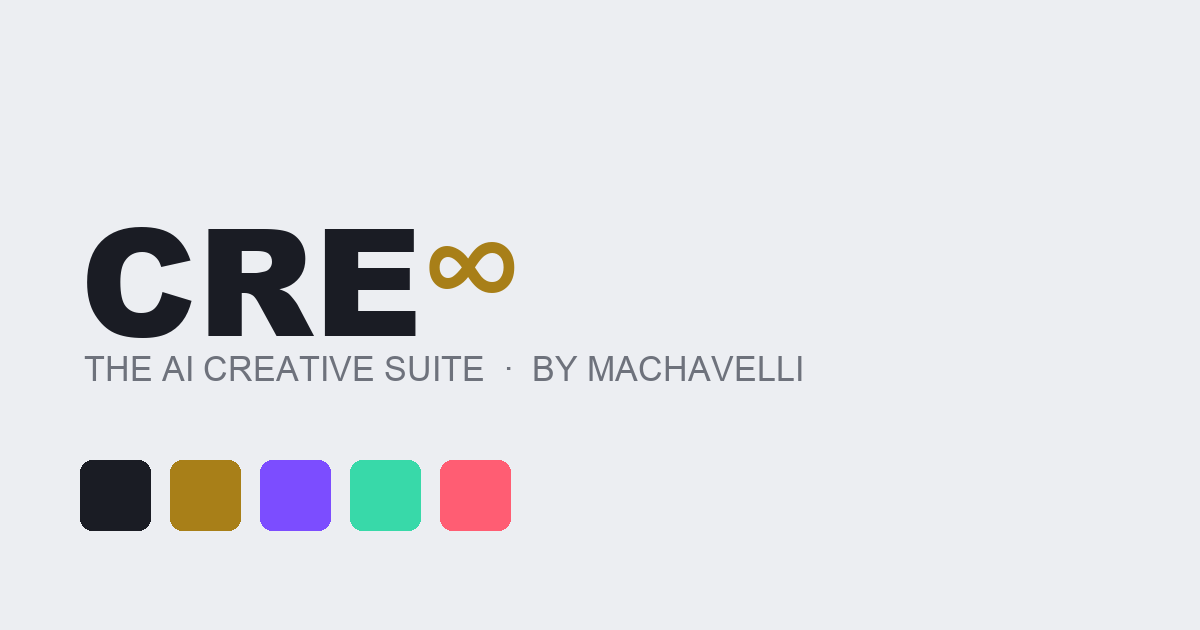
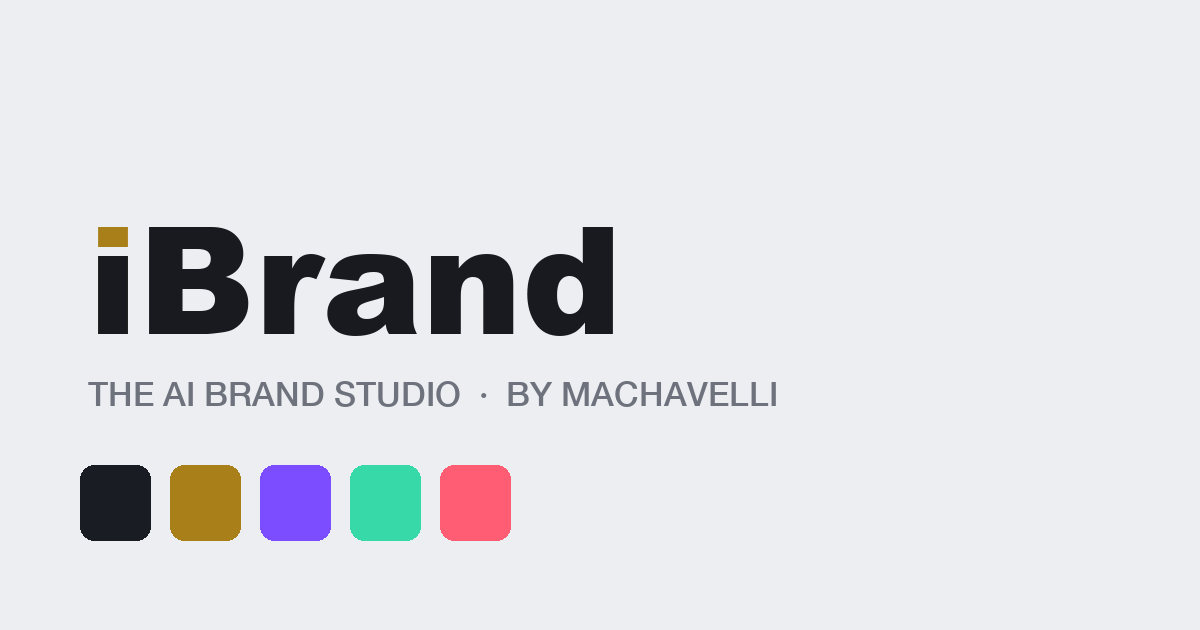
iBrand — the AI brand studio renamed (was CRE∞ suite)

Changed region(s): [[0.0617, 0.3619, 0.6783, 0.6635], [0.0617, 0.8143, 0.4317, 0.8746], [0.0617, 0.7238, 0.4317, 0.754]]

diff --git a/assets/index-DB0gKzt2.js b/assets/index-DB0gKzt2.js
@@ -1,0 +1,1 @@
+(function(){const t=document.createElement("link").relList;if(t&&t.supports&&t.supports("modulepreload"))return;for(const i of document.querySelectorAll('link[rel="modulepreload"]'))l(i);new MutationObserver(i=>{for(const s of i)if(s.type==="childList")for(const f of s.addedNodes)f.tagName==="LINK"&&f.rel==="modulepreload"&&l(f)}).observe(document,{childList:!0,subtree:!0});function n(i){const s={};return i.integrity&&(s.integrity=i.integrity),i.referrerPolicy&&(s.referrerPolicy=i.referrerPolicy),i.crossOrigin==="use-credentials"?s.credentials="include":i.crossOrigin==="anonymous"?s.credentials="omit":s.credentials="same-origin",s}function l(i){if(i.ep)return;i.ep=!0;const s=n(i);fetch(i.href,s)}})();const yt=!1,xt=(e,t)=>e===t,wt=Symbol("solid-track"),ke={equals:xt};let Qe=lt;const de=1,Re=2,et={owned:null,cleanups:null,context:null,owner:null};var U=null;let He=null,St=null,D=null,G=null,ae=null,Oe=0;function Te(e,t){const n=D,l=U,i=e.length===0,s=t===void 0?l:t,f=i?et:{owned:null,cleanups:null,context:s?s.context:null,owner:s},r=i?e:()=>e(()=>fe(()=>we(f)));U=f,D=null;try{return _e(r,!0)}finally{D=n,U=l}}function ee(e,t){t=t?Object.assign({},ke,t):ke;const n={value:e,observers:null,observerSlots:null,comparator:t.equals||void 0},l=i=>(typeof i=="function"&&(i=i(n.value)),nt(n,i));return[tt.bind(n),l]}function M(e,t,n){const l=We(e,t,!1,de);Se(l)}function je(e,t,n){Qe=Tt;const l=We(e,t,!1,de);l.user=!0,ae?ae.push(l):Se(l)}function xe(e,t,n){n=n?Object.assign({},ke,n):ke;const l=We(e,t,!0,0);return l.observers=null,l.observerSlots=null,l.comparator=n.equals||void 0,Se(l),tt.bind(l)}function fe(e){if(D===null)return e();const t=D;D=null;try{return e()}finally{D=t}}function _t(e){je(()=>fe(e))}function Et(e){return U===null||(U.cleanups===null?U.cleanups=[e]:U.cleanups.push(e)),e}function tt(){if(this.sources&&this.state)if(this.state===de)Se(this);else{const e=G;G=null,_e(()=>Me(this),!1),G=e}if(D){const e=this.observers?this.observers.length:0;D.sources?(D.sources.push(this),D.sourceSlots.push(e)):(D.sources=[this],D.sourceSlots=[e]),this.observers?(this.observers.push(D),this.observerSlots.push(D.sources.length-1)):(this.observers=[D],this.observerSlots=[D.sources.length-1])}return this.value}function nt(e,t,n){let l=e.value;return(!e.comparator||!e.comparator(l,t))&&(e.value=t,e.observers&&e.observers.length&&_e(()=>{for(let i=0;i<e.observers.length;i+=1){const s=e.observers[i],f=He&&He.running;f&&He.disposed.has(s),(f?!s.tState:!s.state)&&(s.pure?G.push(s):ae.push(s),s.observers&&it(s)),f||(s.state=de)}if(G.length>1e6)throw G=[],new Error},!1)),t}function Se(e){if(!e.fn)return;we(e);const t=Oe;Ct(e,e.value,t)}function Ct(e,t,n){let l;const i=U,s=D;D=U=e;try{l=e.fn(t)}catch(f){return e.pure&&(e.state=de,e.owned&&e.owned.forEach(we),e.owned=null),e.updatedAt=n+1,st(f)}finally{D=s,U=i}(!e.updatedAt||e.updatedAt<=n)&&(e.updatedAt!=null&&"observers"in e?nt(e,l):e.value=l,e.updatedAt=n)}function We(e,t,n,l=de,i){const s={fn:e,state:l,updatedAt:null,owned:null,sources:null,sourceSlots:null,cleanups:null,value:t,owner:U,context:U?U.context:null,pure:n};return U===null||U!==et&&(U.owned?U.owned.push(s):U.owned=[s]),s}function Le(e){if(e.state===0)return;if(e.state===Re)return Me(e);if(e.suspense&&fe(e.suspense.inFallback))return e.suspense.effects.push(e);const t=[e];for(;(e=e.owner)&&(!e.updatedAt||e.updatedAt<Oe);)e.state&&t.push(e);for(let n=t.length-1;n>=0;n--)if(e=t[n],e.state===de)Se(e);else if(e.state===Re){const l=G;G=null,_e(()=>Me(e,t[0]),!1),G=l}}function _e(e,t){if(G)return e();let n=!1;t||(G=[]),ae?n=!0:ae=[],Oe++;try{const l=e();return At(n),l}catch(l){n||(ae=null),G=null,st(l)}}function At(e){if(G&&(lt(G),G=null),e)return;const t=ae;ae=null,t.length&&_e(()=>Qe(t),!1)}function lt(e){for(let t=0;t<e.length;t++)Le(e[t])}function Tt(e){let t,n=0;for(t=0;t<e.length;t++){const l=e[t];l.user?e[n++]=l:Le(l)}for(t=0;t<n;t++)Le(e[t])}function Me(e,t){e.state=0;for(let n=0;n<e.sources.length;n+=1){const l=e.sources[n];if(l.sources){const i=l.state;i===de?l!==t&&(!l.updatedAt||l.updatedAt<Oe)&&Le(l):i===Re&&Me(l,t)}}}function it(e){for(let t=0;t<e.observers.length;t+=1){const n=e.observers[t];n.state||(n.state=Re,n.pure?G.push(n):ae.push(n),n.observers&&it(n))}}function we(e){let t;if(e.sources)for(;e.sources.length;){const n=e.sources.pop(),l=e.sourceSlots.pop(),i=n.observers;if(i&&i.length){const s=i.pop(),f=n.observerSlots.pop();l<i.length&&(s.sourceSlots[f]=l,i[l]=s,n.observerSlots[l]=f)}}if(e.tOwned){for(t=e.tOwned.length-1;t>=0;t--)we(e.tOwned[t]);delete e.tOwned}if(e.owned){for(t=e.owned.length-1;t>=0;t--)we(e.owned[t]);e.owned=null}if(e.cleanups){for(t=e.cleanups.length-1;t>=0;t--)e.cleanups[t]();e.cleanups=null}e.state=0}function kt(e){return e instanceof Error?e:new Error(typeof e=="string"?e:"Unknown error",{cause:e})}function st(e,t=U){throw kt(e)}const Rt=Symbol("fallback");function qe(e){for(let t=0;t<e.length;t++)e[t]()}function Lt(e,t,n={}){let l=[],i=[],s=[],f=0,r=t.length>1?[]:null;return Et(()=>qe(s)),()=>{let $=e()||[],w=$.length,S,p;return $[wt],fe(()=>{let J,se,re,he,pe,V,q,te,N;if(w===0)f!==0&&(qe(s),s=[],l=[],i=[],f=0,r&&(r=[])),n.fallback&&(l=[Rt],i[0]=Te(ge=>(s[0]=ge,n.fallback())),f=1);else if(f===0){for(i=new Array(w),p=0;p<w;p++)l[p]=$[p],i[p]=Te(X);f=w}else{for(re=new Array(w),he=new Array(w),r&&(pe=new Array(w)),V=0,q=Math.min(f,w);V<q&&l[V]===$[V];V++);for(q=f-1,te=w-1;q>=V&&te>=V&&l[q]===$[te];q--,te--)re[te]=i[q],he[te]=s[q],r&&(pe[te]=r[q]);for(J=new Map,se=new Array(te+1),p=te;p>=V;p--)N=$[p],S=J.get(N),se[p]=S===void 0?-1:S,J.set(N,p);for(S=V;S<=q;S++)N=l[S],p=J.get(N),p!==void 0&&p!==-1?(re[p]=i[S],he[p]=s[S],r&&(pe[p]=r[S]),p=se[p],J.set(N,p)):s[S]();for(p=V;p<w;p++)p in re?(i[p]=re[p],s[p]=he[p],r&&(r[p]=pe[p],r[p](p))):i[p]=Te(X);i=i.slice(0,f=w),l=$.slice(0)}return i});function X(J){if(s[p]=J,r){const[se,re]=ee(p);return r[p]=re,t($[p],se)}return t($[p])}}}function P(e,t){return fe(()=>e(t||{}))}const Mt=e=>`Stale read from <${e}>.`;function ie(e){const t="fallback"in e&&{fallback:()=>e.fallback};return xe(Lt(()=>e.each,e.children,t||void 0))}function ce(e){const t=e.keyed,n=xe(()=>e.when,void 0,void 0),l=t?n:xe(n,void 0,{equals:(i,s)=>!i==!s});return xe(()=>{const i=l();if(i){const s=e.children;return typeof s=="function"&&s.length>0?fe(()=>s(t?i:()=>{if(!fe(l))throw Mt("Show");return n()})):s}return e.fallback},void 0,void 0)}const Ce=e=>xe(()=>e());function Nt(e,t,n){let l=n.length,i=t.length,s=l,f=0,r=0,$=t[i-1].nextSibling,w=null;for(;f<i||r<s;){if(t[f]===n[r]){f++,r++;continue}for(;t[i-1]===n[s-1];)i--,s--;if(i===f){const S=s<l?r?n[r-1].nextSibling:n[s-r]:$;for(;r<s;)e.insertBefore(n[r++],S)}else if(s===r)for(;f<i;)(!w||!w.has(t[f]))&&t[f].remove(),f++;else if(t[f]===n[s-1]&&n[r]===t[i-1]){const S=t[--i].nextSibling;e.insertBefore(n[r++],t[f++].nextSibling),e.insertBefore(n[--s],S),t[i]=n[s]}else{if(!w){w=new Map;let p=r;for(;p<s;)w.set(n[p],p++)}const S=w.get(t[f]);if(S!=null)if(r<S&&S<s){let p=f,X=1,J;for(;++p<i&&p<s&&!((J=w.get(t[p]))==null||J!==S+X);)X++;if(X>S-r){const se=t[f];for(;r<S;)e.insertBefore(n[r++],se)}else e.replaceChild(n[r++],t[f++])}else f++;else t[f++].remove()}}}const ze="_$DX_DELEGATE";function Ot(e,t,n,l={}){let i;return Te(s=>{i=s,t===document?e():C(t,e(),t.firstChild?null:void 0,n)},l.owner),()=>{i(),t.textContent=""}}function T(e,t,n,l){let i;const s=()=>{const r=document.createElement("template");return r.innerHTML=e,r.content.firstChild},f=()=>(i||(i=s())).cloneNode(!0);return f.cloneNode=f,f}function It(e,t=window.document){const n=t[ze]||(t[ze]=new Set);for(let l=0,i=e.length;l<i;l++){const s=e[l];n.has(s)||(n.add(s),t.addEventListener(s,Pt))}}function Ae(e,t,n){n==null?e.removeAttribute(t):e.setAttribute(t,n)}function Y(e,t,n){n!=null?e.style.setProperty(t,n):e.style.removeProperty(t)}function rt(e,t,n){return fe(()=>e(t,n))}function C(e,t,n,l){if(n!==void 0&&!l&&(l=[]),typeof t!="function")return Ne(e,t,l,n);M(i=>Ne(e,t(),i,n),l)}function Pt(e){let t=e.target;const n=`$$${e.type}`,l=e.target,i=e.currentTarget,s=$=>Object.defineProperty(e,"target",{configurable:!0,value:$}),f=()=>{const $=t[n];if($&&!t.disabled){const w=t[`${n}Data`];if(w!==void 0?$.call(t,w,e):$.call(t,e),e.cancelBubble)return}return t.host&&typeof t.host!="string"&&!t.host._$host&&t.contains(e.target)&&s(t.host),!0},r=()=>{for(;f()&&(t=t._$host||t.parentNode||t.host););};if(Object.defineProperty(e,"currentTarget",{configurable:!0,get(){return t||document}}),e.composedPath){const $=e.composedPath();s($[0]);for(let w=0;w<$.length-2&&(t=$[w],!!f());w++){if(t._$host){t=t._$host,r();break}if(t.parentNode===i)break}}else r();s(l)}function Ne(e,t,n,l,i){for(;typeof n=="function";)n=n();if(t===n)return n;const s=typeof t,f=l!==void 0;if(e=f&&n[0]&&n[0].parentNode||e,s==="string"||s==="number"){if(s==="number"&&(t=t.toString(),t===n))return n;if(f){let r=n[0];r&&r.nodeType===3?r.data!==t&&(r.data=t):r=document.createTextNode(t),n=$e(e,n,l,r)}else n!==""&&typeof n=="string"?n=e.firstChild.data=t:n=e.textContent=t}else if(t==null||s==="boolean")n=$e(e,n,l);else{if(s==="function")return M(()=>{let r=t();for(;typeof r=="function";)r=r();n=Ne(e,r,n,l)}),()=>n;if(Array.isArray(t)){const r=[],$=n&&Array.isArray(n);if(Ke(r,t,n,i))return M(()=>n=Ne(e,r,n,l,!0)),()=>n;if(r.length===0){if(n=$e(e,n,l),f)return n}else $?n.length===0?Xe(e,r,l):Nt(e,n,r):(n&&$e(e),Xe(e,r));n=r}else if(t.nodeType){if(Array.isArray(n)){if(f)return n=$e(e,n,l,t);$e(e,n,null,t)}else n==null||n===""||!e.firstChild?e.appendChild(t):e.replaceChild(t,e.firstChild);n=t}}return n}function Ke(e,t,n,l){let i=!1;for(let s=0,f=t.length;s<f;s++){let r=t[s],$=n&&n[e.length],w;if(!(r==null||r===!0||r===!1))if((w=typeof r)=="object"&&r.nodeType)e.push(r);else if(Array.isArray(r))i=Ke(e,r,$)||i;else if(w==="function")if(l){for(;typeof r=="function";)r=r();i=Ke(e,Array.isArray(r)?r:[r],Array.isArray($)?$:[$])||i}else e.push(r),i=!0;else{const S=String(r);$&&$.nodeType===3&&$.data===S?e.push($):e.push(document.createTextNode(S))}}return i}function Xe(e,t,n=null){for(let l=0,i=t.length;l<i;l++)e.insertBefore(t[l],n)}function $e(e,t,n,l){if(n===void 0)return e.textContent="";const i=l||document.createTextNode("");if(t.length){let s=!1;for(let f=t.length-1;f>=0;f--){const r=t[f];if(i!==r){const $=r.parentNode===e;!s&&!f?$?e.replaceChild(i,r):e.insertBefore(i,n):$&&r.remove()}else s=!0}}else e.insertBefore(i,n);return[i]}var Dt=T("<h3>SELECTED"),Bt=T("<input class=txtin>"),Ut=T("<label class=mini>SIZE<input type=range min=16 max=220>"),Ht=T("<div class=chips><input type=color>"),Ft=T("<div class=rowbtns><button>▲ FRONT</button><button>▼ BACK</button><button class=danger>DELETE"),Gt=T("<section class=widget><div class=whead><h2>THE CANVAS</h2><span class=wsub>freeform design — drag to move, corner to resize, everything exports</span><div class=wactions><select class=selbox></select><button>+ TEXT</button><button>+ BLOCK</button><button>+ CIRCLE</button><label class=loadbtn>+ IMAGE<input type=file accept=image/* style=display:none></label><button>−</button><button>+</button><button class=gold>⭳ PNG</button></div></div><div class=canvaswrap><div class=artboard></div><aside class=inspector><h3>LAYERS"),Kt=T("<section class=widget><div class=whead><h2>MOCKUPS</h2><span class=wsub>your art on the product — pick a frame, drop the artwork, export print-ready</span><div class=wactions><label class=loadbtn>DROP ARTWORK<input type=file accept=image/* style=display:none></label><button class=gold>⭳ PNG 2×</button></div></div><div class=mockrow><div class=framelist></div><div class=mockstage>"),jt=T('<section class=widget><div class=whead><h2>THE BRAND</h2><span class=wsub>logo in → palette out · the kit drives every studio in iBrand</span><div class=wactions><label class=loadbtn>LOAD LOGO<input type=file accept=image/* style=display:none></label><button class=gold>⭳ BRAND SHEET</button></div></div><div class=brandgrid><div class=brandcard><h3>NAME</h3><input class="txtin big"><h3>LOGO</h3><div class=logoslot></div></div><div class=brandcard><h3>PALETTE</h3><div class=palette></div><h3>TYPE</h3><div class=fontpairs>'),Wt=T("<section class=widget><div class=whead><h2>SCREENS</h2><span class=wsub>stack blocks → a real page in your brand · exports working HTML</span><div class=wactions><button class=gold>⭳ HTML</button></div></div><div class=screenrow><div class=blockbar><h3>BLOCKS</h3><h3>PAGE</h3></div><iframe class=pagepreview title=preview>"),Yt=T("<section class=widget><div class=whead><h2>ENGINES</h2><span class=wsub>local generators work right now · cloud engines dock here with your keys (desktop edition wires them live)</span></div><div class=enginerow><div class=gencard><h3>LOCAL GENERATORS — in the box, yours</h3><canvas width=600 height=600 class=gencv></canvas><div class=rowbtns><button>NEBULA</button><button>PATTERN</button><button>MARK</button><button class=gold>→ CANVAS</button><button>⭳ PNG</button></div><p class=legend>seeded procedural art from YOUR brand palette — every press is an original. no cloud, no license questions: it's yours.</p></div><div class=gencard><h3>CLOUD ENGINE DOCK</h3><p class=legend>honest status: keys store locally and stay on your machine. live generation through these engines lands with the iBrand desktop edition — the dock is the socket, built and waiting."),Vt=T("<div class=shell><header class=top><div class=brand><b><span class=inf>i</span>Brand</b><i>by Machavelli</i></div><nav class=screens></nav><span class=tag>create with AI · or build completely originally</span></header><main class=deck></main><footer class=foot>iBRAND · BY MACHAVELLI · CANVAS — MOCKUPS — BRAND — SCREENS — ENGINES · CREATE WITH AI OR BUILD COMPLETELY ORIGINALLY"),Je=T("<button>"),qt=T("<option>"),zt=T("<i class=grip>"),Xt=T("<div class=cel>"),Jt=T("<span style=line-height:1.15>"),Zt=T("<img style=width:100%;height:100%;object-fit:cover;border-radius:4px>"),Qt=T("<div style=width:100%;height:100%>"),en=T("<button class=layerrow>"),tn=T("<button class=chip>"),nn=T("<img>"),ln=T("<span>load a logo — the palette reads itself out of it"),sn=T("<div class=swatch><input type=color><b>"),rn=T("<button><b></b><span>the voice underneath"),on=T("<button>+ "),an=T("<div class=stackrow><span></span><button>▲</button><button>✕"),cn=T('<div class=enginedock><b></b><input class=txtin type=password placeholder="API key"><i>'),fn=T("<canvas class=mockcv>");const Fe=[{name:"SOCIAL 1:1",w:1080,h:1080},{name:"STORY 9:16",w:1080,h:1920},{name:"WEB 16:10",w:1440,h:900},{name:"POSTER 2:3",w:1200,h:1800},{name:"COVER 16:9",w:1280,h:720}],Ge=[{name:"MODERN",head:'900 1em "Helvetica Neue", Arial, sans-serif',body:'400 1em "Helvetica Neue", Arial, sans-serif'},{name:"EDITORIAL",head:"700 1em Georgia, serif",body:"400 1em Georgia, serif"},{name:"TECH",head:'700 1em "SF Mono", Menlo, monospace',body:'400 1em "Helvetica Neue", sans-serif'},{name:"LUXE",head:'400 1em "Didot", Georgia, serif',body:'300 1em "Helvetica Neue", sans-serif'}],dn=["nav","hero","features","gallery","pricing","cta","footer"],Ze=[{id:"phone",name:"PHONE",w:380,h:760,slot:[14,70,352,620]},{id:"browser",name:"BROWSER",w:800,h:540,slot:[8,44,784,488]},{id:"tee",name:"T-SHIRT",w:600,h:640,slot:[185,190,230,260]},{id:"poster",name:"POSTER",w:480,h:680,slot:[40,40,400,600]},{id:"card",name:"BIZ CARD",w:640,h:380,slot:[30,30,580,320]}];function un(){const[e,t]=ee("canvas"),[n,l]=ee(Fe[0]),[i,s]=ee([],{equals:!1}),[f,r]=ee(null),[$,w]=ee(.5),S=()=>i().find(u=>u.id===f())??null,p=(u,c)=>s(a=>a.map(o=>o.id===u?{...o,...c}:o)),X=u=>{const c={...u,id:crypto.randomUUID()};s(a=>[...a,c]),r(c.id)},J=()=>X({type:"text",x:80,y:80,w:560,h:120,fill:N().colors[0]??"#1a1c24",text:"YOUR HEADLINE",fontSize:72,fontWeight:800}),se=()=>X({type:"rect",x:120,y:120,w:360,h:240,fill:N().colors[1]??"#a87f18",radius:16}),re=()=>X({type:"ellipse",x:160,y:160,w:280,h:280,fill:N().colors[2]??"#7c4dff"}),he=u=>{const c=new FileReader;c.onload=()=>X({type:"image",x:60,y:60,w:480,h:480,fill:"none",src:c.result}),c.readAsDataURL(u)},pe=()=>{const u=f();u&&(s(c=>c.filter(a=>a.id!==u)),r(null))},V=u=>{const c=f();c&&s(a=>{const o=a.findIndex(b=>b.id===c);if(o<0||o+u<0||o+u>=a.length)return a;const g=[...a],[x]=g.splice(o,1);return g.splice(o+u,0,x),g})},q=(u,c,a)=>{u.preventDefault(),u.stopPropagation(),r(c.id);const o=u.clientX,g=u.clientY,x=c.x,b=c.y,E=c.w,A=c.h,m=$(),_=L=>{const F=(L.clientX-o)/m,O=(L.clientY-g)/m;a==="move"?p(c.id,{x:Math.round(x+F),y:Math.round(b+O)}):p(c.id,{w:Math.max(20,Math.round(E+F)),h:Math.max(20,Math.round(A+O))})},H=()=>{window.removeEventListener("pointermove",_),window.removeEventListener("pointerup",H)};window.addEventListener("pointermove",_),window.addEventListener("pointerup",H)},te=async()=>{const u=n(),c=document.createElement("canvas");c.width=u.w,c.height=u.h;const a=c.getContext("2d");a.fillStyle="#ffffff",a.fillRect(0,0,u.w,u.h);for(const o of i())if(o.type==="rect")a.fillStyle=o.fill,z(a,o.x,o.y,o.w,o.h,o.radius??0),a.fill();else if(o.type==="ellipse")a.fillStyle=o.fill,a.beginPath(),a.ellipse(o.x+o.w/2,o.y+o.h/2,o.w/2,o.h/2,0,0,Math.PI*2),a.fill();else if(o.type==="text")a.fillStyle=o.fill,a.font=`${o.fontWeight??800} ${o.fontSize??72}px "Helvetica Neue", Arial, sans-serif`,a.textBaseline="top",pn(a,o.text??"",o.x,o.y,o.w,(o.fontSize??72)*1.15);else if(o.type==="image"&&o.src){const g=await ye(o.src);a.drawImage(g,o.x,o.y,o.w,o.h)}ve(c.toDataURL("image/png"),`ibrand-${u.name.toLowerCase().replace(/[^a-z0-9]+/g,"-")}.png`)},[N,ge]=ee((()=>{try{return JSON.parse(localStorage.getItem("ibrand-kit")||localStorage.getItem("cre8-kit")||"")}catch{return{name:"YOUR BRAND",logo:null,colors:["#1a1c24","#a87f18","#7c4dff","#38d9a9","#ff5d73"],headFont:Ge[0].head,bodyFont:Ge[0].body}}})(),{equals:!1});je(()=>{try{localStorage.setItem("ibrand-kit",JSON.stringify(N()))}catch{}});const at=u=>{const c=new FileReader;c.onload=async()=>{const a=c.result,o=await ye(a),g=document.createElement("canvas");g.width=64,g.height=64;const x=g.getContext("2d");x.drawImage(o,0,0,64,64);const b=x.getImageData(0,0,64,64).data,E=new Map;for(let m=0;m<b.length;m+=4){if(b[m+3]<128)continue;const _=b[m],H=b[m+1],L=b[m+2],F=`${_>>5}-${H>>5}-${L>>5}`,O=E.get(F)??{n:0,r:0,g:0,b:0};O.n++,O.r+=_,O.g+=H,O.b+=L,E.set(F,O)}const A=[...E.values()].sort((m,_)=>_.n-m.n).slice(0,5).map(m=>"#"+[m.r,m.g,m.b].map(_=>Math.round(_/m.n).toString(16).padStart(2,"0")).join(""));ge(m=>({...m,logo:a,colors:A.length>=3?A:m.colors}))},c.readAsDataURL(u)},ct=async()=>{const u=N(),c=document.createElement("canvas");c.width=1200,c.height=800;const a=c.getContext("2d");if(a.fillStyle="#f4f5f8",a.fillRect(0,0,1200,800),a.fillStyle="#1a1c24",a.font='800 64px "Helvetica Neue"',a.textBaseline="top",a.fillText(u.name,70,60),a.font='400 22px "Helvetica Neue"',a.fillStyle="#6e727c",a.fillText("BRAND SHEET · MADE IN iBRAND",70,140),u.logo){const o=await ye(u.logo);a.drawImage(o,850,60,280,280)}u.colors.forEach((o,g)=>{a.fillStyle=o,z(a,70+g*180,260,150,150,14),a.fill(),a.fillStyle="#1a1c24",a.font="600 18px Menlo",a.fillText(o.toUpperCase(),70+g*180,425)}),a.fillStyle="#1a1c24",a.font=u.headFont.replace("1em","54px"),a.fillText("Headline voice",70,510),a.font=u.bodyFont.replace("1em","26px"),a.fillText("Body voice — the words your brand speaks in every room.",70,590),ve(c.toDataURL("image/png"),`${u.name.toLowerCase().replace(/[^a-z0-9]+/g,"-")}-brand-sheet.png`)},[Ye,Ie]=ee(["nav","hero","features","cta","footer"],{equals:!1}),Ve=()=>{var b,E;const u=N(),c=u.colors[0]??"#1a1c24",a=u.colors[1]??"#a87f18",o=((b=u.headFont.split("1em")[1])==null?void 0:b.trim())??"sans-serif",g=((E=u.bodyFont.split("1em")[1])==null?void 0:E.trim())??"sans-serif",x=Ye().map(A=>A==="nav"?`<nav style="display:flex;justify-content:space-between;align-items:center;padding:20px 48px"><b style="font:800 22px ${o}">${u.name}</b><div style="display:flex;gap:28px;font:500 14px ${g}"><span>Work</span><span>About</span><span style="background:${a};color:#fff;padding:8px 18px;border-radius:8px">Start</span></div></nav>`:A==="hero"?`<section style="padding:110px 48px;text-align:center"><h1 style="font:800 64px ${o};margin:0 0 18px;color:${c}">Make it unforgettable.</h1><p style="font:400 20px ${g};color:#6e727c;max-width:560px;margin:0 auto 34px">${u.name} — built with iBrand.</p><span style="background:${c};color:#fff;padding:16px 36px;border-radius:10px;font:600 16px ${g}">See the work</span></section>`:A==="features"?`<section style="display:grid;grid-template-columns:repeat(3,1fr);gap:24px;padding:60px 48px">${[1,2,3].map(m=>`<div style="background:#f4f5f8;border-radius:16px;padding:34px"><div style="width:44px;height:44px;border-radius:10px;background:${u.colors[m]??a};margin-bottom:18px"></div><b style="font:700 20px ${o};color:${c}">Feature ${m}</b><p style="font:400 15px ${g};color:#6e727c">What it does and why it matters.</p></div>`).join("")}</section>`:A==="gallery"?`<section style="display:grid;grid-template-columns:repeat(4,1fr);gap:14px;padding:40px 48px">${u.colors.slice(0,4).map(m=>`<div style="aspect-ratio:1;border-radius:14px;background:${m}"></div>`).join("")}</section>`:A==="pricing"?`<section style="display:grid;grid-template-columns:repeat(3,1fr);gap:24px;padding:60px 48px">${["Starter|29","Pro|79","Studio|199"].map((m,_)=>{const[H,L]=m.split("|");return`<div style="border:2px solid ${_===1?a:"#e3e5ea"};border-radius:18px;padding:38px;text-align:center"><b style="font:700 18px ${g}">${H}</b><div style="font:800 52px ${o};color:${c}">$${L}</div><p style="font:400 14px ${g};color:#6e727c">per month</p></div>`}).join("")}</section>`:A==="cta"?`<section style="margin:60px 48px;background:${c};border-radius:24px;padding:70px;text-align:center"><h2 style="font:800 42px ${o};color:#fff;margin:0 0 22px">Ready when you are.</h2><span style="background:${a};color:#fff;padding:14px 32px;border-radius:10px;font:600 15px ${g}">Let's build</span></section>`:`<footer style="padding:40px 48px;border-top:1px solid #e3e5ea;display:flex;justify-content:space-between;font:400 13px ${g};color:#6e727c"><span>© ${u.name}</span><span>Made with iBrand by Machavelli</span></footer>`);return`<!doctype html><html><head><meta charset="utf-8"><meta name="viewport" content="width=device-width,initial-scale=1"><title>${u.name}</title></head><body style="margin:0;background:#fff;color:#1a1c24">${x.join("")}</body></html>`},ft=()=>{const u=new Blob([Ve()],{type:"text/html"});ve(URL.createObjectURL(u),`${N().name.toLowerCase().replace(/[^a-z0-9]+/g,"-")}-screen.html`)},[Pe,dt]=ee(Ze[0]),[De,ut]=ee(null),ht=u=>{const c=new FileReader;c.onload=()=>ut(c.result),c.readAsDataURL(u)},pt=async()=>{const u=Pe(),c=2,a=document.createElement("canvas");a.width=u.w*c,a.height=u.h*c;const o=a.getContext("2d");if(o.scale(c,c),ot(o,u.id,u.w,u.h),De()){const g=await ye(De()),[x,b,E,A]=u.slot;o.save(),o.beginPath(),o.rect(x,b,E,A),o.clip();const m=Math.max(E/g.width,A/g.height);o.drawImage(g,x+(E-g.width*m)/2,b+(A-g.height*m)/2,g.width*m,g.height*m),o.restore()}ve(a.toDataURL("image/png"),`ibrand-mockup-${u.id}.png`)},gt=["SORA (video)","VEO (video)","RECRAFT (brand art)","DREAMINA (mockups)","GALILEO (UI)"],[Be,$t]=ee((()=>{try{return JSON.parse(localStorage.getItem("ibrand-keys")||localStorage.getItem("cre8-keys")||"{}")}catch{return{}}})(),{equals:!1}),bt=(u,c)=>{$t(a=>{const o={...a,[u]:c};try{localStorage.setItem("ibrand-keys",JSON.stringify(o))}catch{}return o})},[mt,Ue]=ee(7);let ue;const Ee=u=>{const c=ue.getContext("2d"),a=ue.width,o=ue.height,g=gn(mt()),x=N().colors;if(u==="gradient"){const b=c.createLinearGradient(0,0,a,o),E=x[Math.floor(g()*x.length)],A=x[Math.floor(g()*x.length)];b.addColorStop(0,E),b.addColorStop(1,A),c.fillStyle=b,c.fillRect(0,0,a,o);for(let m=0;m<5;m++){const _=c.createRadialGradient(g()*a,g()*o,0,g()*a,g()*o,120+g()*260);_.addColorStop(0,x[Math.floor(g()*x.length)]+"aa"),_.addColorStop(1,"#00000000"),c.fillStyle=_,c.fillRect(0,0,a,o)}}else if(u==="pattern"){c.fillStyle="#f4f5f8",c.fillRect(0,0,a,o);const b=9+Math.floor(g()*8);for(let E=0;E<b*b;E++){const A=E%b*(a/b),m=Math.floor(E/b)*(o/b);c.fillStyle=x[Math.floor(g()*x.length)];const _=a/b*(.24+g()*.6);g()>.5?(c.beginPath(),c.arc(A+a/b/2,m+o/b/2,_/2,0,Math.PI*2),c.fill()):(z(c,A+(a/b-_)/2,m+(o/b-_)/2,_,_,_*.2),c.fill())}}else{c.fillStyle="#ffffff",c.fillRect(0,0,a,o),c.translate(a/2,o/2);const b=3+Math.floor(g()*5);for(let E=0;E<b;E++)c.rotate(Math.PI*2/b),c.fillStyle=x[E%x.length],z(c,20,-28+g()*20,90+g()*90,44+g()*30,22),c.fill();c.setTransform(1,0,0,1,0,0)}},vt=()=>{X({type:"image",x:40,y:40,w:520,h:520,fill:"none",src:ue.toDataURL("image/png")}),t("canvas")};return _t(()=>{Ee("gradient")}),(()=>{var u=Vt(),c=u.firstChild,a=c.firstChild,o=a.nextSibling,g=c.nextSibling;return C(o,()=>["canvas","mockups","brand","screens","engines"].map(x=>(()=>{var b=Je();return b.$$click=()=>t(x),C(b,()=>x.toUpperCase()),M(()=>b.classList.toggle("on",e()===x)),b})())),C(g,P(ce,{get when(){return e()==="canvas"},get children(){var x=Gt(),b=x.firstChild,E=b.firstChild,A=E.nextSibling,m=A.nextSibling,_=m.firstChild,H=_.nextSibling,L=H.nextSibling,F=L.nextSibling,O=F.nextSibling,Z=O.firstChild,Q=Z.nextSibling,k=O.nextSibling,B=k.nextSibling,ne=B.nextSibling,oe=b.nextSibling,K=oe.firstChild,j=K.nextSibling;return j.firstChild,_.addEventListener("change",d=>l(Fe[+d.currentTarget.value])),C(_,P(ie,{each:Fe,children:(d,v)=>(()=>{var h=qt();return C(h,()=>d.name),M(()=>h.selected=n()===d),M(()=>h.value=v()),h})()})),H.$$click=J,L.$$click=se,F.$$click=re,Q.addEventListener("change",d=>{var h;const v=(h=d.currentTarget.files)==null?void 0:h[0];v&&he(v)}),k.$$click=()=>w(d=>Math.max(.15,d/1.3)),B.$$click=()=>w(d=>Math.min(2,d*1.3)),ne.$$click=te,K.$$pointerdown=()=>r(null),C(K,P(ie,{get each(){return i()},children:d=>(()=>{var v=Xt();return v.$$pointerdown=h=>q(h,d,"move"),C(v,(()=>{var h=Ce(()=>d.type==="text");return()=>h()?(()=>{var y=Jt();return C(y,()=>d.text),M(R=>{var W=d.fill,I=`${(d.fontSize??72)*$()}px`,le=`${d.fontWeight??800}`;return W!==R.e&&Y(y,"color",R.e=W),I!==R.t&&Y(y,"font-size",R.t=I),le!==R.a&&Y(y,"font-weight",R.a=le),R},{e:void 0,t:void 0,a:void 0}),y})():Ce(()=>d.type==="image")()?(()=>{var y=Zt();return Ae(y,"draggable",!1),M(()=>Ae(y,"src",d.src)),y})():(()=>{var y=Qt();return M(R=>{var W=d.fill,I=d.type==="ellipse"?"50%":`${(d.radius??0)*$()}px`;return W!==R.e&&Y(y,"background",R.e=W),I!==R.t&&Y(y,"border-radius",R.t=I),R},{e:void 0,t:void 0}),y})()})(),null),C(v,P(ce,{get when(){return f()===d.id},get children(){var h=zt();return h.$$pointerdown=y=>q(y,d,"resize"),h}}),null),M(h=>{var y=f()===d.id,R=`${d.x*$()}px`,W=`${d.y*$()}px`,I=`${d.w*$()}px`,le=`${d.h*$()}px`;return y!==h.e&&v.classList.toggle("selected",h.e=y),R!==h.t&&Y(v,"left",h.t=R),W!==h.a&&Y(v,"top",h.a=W),I!==h.o&&Y(v,"width",h.o=I),le!==h.i&&Y(v,"height",h.i=le),h},{e:void 0,t:void 0,a:void 0,o:void 0,i:void 0}),v})()})),C(j,P(ie,{get each(){return[...i()].reverse()},children:d=>(()=>{var v=en();return v.$$click=()=>r(d.id),C(v,(()=>{var h=Ce(()=>d.type==="text");return()=>h()?`T · ${(d.text??"").slice(0,14)}`:d.type.toUpperCase()})()),M(()=>v.classList.toggle("on",f()===d.id)),v})()}),null),C(j,P(ce,{get when(){return S()},get children(){return[Dt(),P(ce,{get when(){return S().type==="text"},get children(){return[(()=>{var d=Bt();return d.$$input=v=>p(f(),{text:v.currentTarget.value}),M(()=>d.value=S().text),d})(),(()=>{var d=Ut(),v=d.firstChild,h=v.nextSibling;return h.$$input=y=>p(f(),{fontSize:+y.currentTarget.value}),M(()=>h.value=S().fontSize),d})()]}}),(()=>{var d=Ht(),v=d.firstChild;return C(d,P(ie,{get each(){return N().colors},children:h=>(()=>{var y=tn();return y.$$click=()=>p(f(),{fill:h}),Y(y,"background",h),y})()}),v),v.$$input=h=>p(f(),{fill:h.currentTarget.value}),M(()=>v.value=S().fill.startsWith("#")?S().fill:"#1a1c24"),d})(),(()=>{var d=Ft(),v=d.firstChild,h=v.nextSibling,y=h.nextSibling;return v.$$click=()=>V(1),h.$$click=()=>V(-1),y.$$click=pe,d})()]}}),null),M(d=>{var v=`${n().w*$()}px`,h=`${n().h*$()}px`;return v!==d.e&&Y(K,"width",d.e=v),h!==d.t&&Y(K,"height",d.t=h),d},{e:void 0,t:void 0}),x}}),null),C(g,P(ce,{get when(){return e()==="mockups"},get children(){var x=Kt(),b=x.firstChild,E=b.firstChild,A=E.nextSibling,m=A.nextSibling,_=m.firstChild,H=_.firstChild,L=H.nextSibling,F=_.nextSibling,O=b.nextSibling,Z=O.firstChild,Q=Z.nextSibling;return L.addEventListener("change",k=>{var ne;const B=(ne=k.currentTarget.files)==null?void 0:ne[0];B&&ht(B)}),F.$$click=pt,C(Z,P(ie,{each:Ze,children:k=>(()=>{var B=Je();return B.$$click=()=>dt(k),C(B,()=>k.name),M(()=>B.classList.toggle("on",Pe().id===k.id)),B})()})),C(Q,P(hn,{get frame(){return Pe()},get art(){return De()}})),x}}),null),C(g,P(ce,{get when(){return e()==="brand"},get children(){var x=jt(),b=x.firstChild,E=b.firstChild,A=E.nextSibling,m=A.nextSibling,_=m.firstChild,H=_.firstChild,L=H.nextSibling,F=_.nextSibling,O=b.nextSibling,Z=O.firstChild,Q=Z.firstChild,k=Q.nextSibling,B=k.nextSibling,ne=B.nextSibling,oe=Z.nextSibling,K=oe.firstChild,j=K.nextSibling,d=j.nextSibling,v=d.nextSibling;return L.addEventListener("change",h=>{var R;const y=(R=h.currentTarget.files)==null?void 0:R[0];y&&at(y)}),F.$$click=ct,k.$$input=h=>ge(y=>({...y,name:h.currentTarget.value})),C(ne,(()=>{var h=Ce(()=>!!N().logo);return()=>h()?(()=>{var y=nn();return M(()=>Ae(y,"src",N().logo)),y})():ln()})()),C(j,P(ie,{get each(){return N().colors},children:(h,y)=>(()=>{var R=sn(),W=R.firstChild,I=W.nextSibling;return W.$$input=le=>ge(be=>{const me=[...be.colors];return me[y()]=le.currentTarget.value,{...be,colors:me}}),W.value=h,C(I,()=>h.toUpperCase()),R})()})),C(v,P(ie,{each:Ge,children:h=>(()=>{var y=rn(),R=y.firstChild,W=R.nextSibling;return y.$$click=()=>ge(I=>({...I,headFont:h.head,bodyFont:h.body})),C(R,()=>h.name),M(I=>{var le=N().headFont===h.head,be=h.head.replace("1em","20px"),me=h.body.replace("1em","12px");return le!==I.e&&y.classList.toggle("on",I.e=le),be!==I.t&&Y(R,"font",I.t=be),me!==I.a&&Y(W,"font",I.a=me),I},{e:void 0,t:void 0,a:void 0}),y})()})),M(()=>k.value=N().name),x}}),null),C(g,P(ce,{get when(){return e()==="screens"},get children(){var x=Wt(),b=x.firstChild,E=b.firstChild,A=E.nextSibling,m=A.nextSibling,_=m.firstChild,H=b.nextSibling,L=H.firstChild,F=L.firstChild,O=F.nextSibling,Z=L.nextSibling;return _.$$click=ft,C(L,P(ie,{each:dn,children:Q=>(()=>{var k=on();return k.firstChild,k.$$click=()=>Ie(B=>[...B,Q]),C(k,()=>Q.toUpperCase(),null),k})()}),O),C(L,P(ie,{get each(){return Ye()},children:(Q,k)=>(()=>{var B=an(),ne=B.firstChild,oe=ne.nextSibling,K=oe.nextSibling;return C(ne,()=>Q.toUpperCase()),oe.$$click=()=>Ie(j=>{if(k()===0)return j;const d=[...j],v=d[k()-1];return d[k()-1]=d[k()],d[k()]=v,d}),K.$$click=()=>Ie(j=>j.filter((d,v)=>v!==k())),B})()}),null),M(()=>Ae(Z,"srcdoc",Ve())),x}}),null),C(g,P(ce,{get when(){return e()==="engines"},get children(){var x=Yt(),b=x.firstChild,E=b.nextSibling,A=E.firstChild,m=A.firstChild,_=m.nextSibling,H=_.nextSibling,L=H.firstChild,F=L.nextSibling,O=F.nextSibling,Z=O.nextSibling,Q=Z.nextSibling,k=A.nextSibling,B=k.firstChild,ne=B.nextSibling,oe=ue;return typeof oe=="function"?rt(oe,_):ue=_,L.$$click=()=>{Ue(Math.floor(Math.random()*99999)),Ee("gradient")},F.$$click=()=>{Ue(Math.floor(Math.random()*99999)),Ee("pattern")},O.$$click=()=>{Ue(Math.floor(Math.random()*99999)),Ee("mark")},Z.$$click=vt,Q.$$click=()=>ve(ue.toDataURL("image/png"),"ibrand-generated.png"),C(k,P(ie,{each:gt,children:K=>(()=>{var j=cn(),d=j.firstChild,v=d.nextSibling,h=v.nextSibling;return C(d,K),v.$$input=y=>bt(K,y.currentTarget.value),C(h,()=>Be()[K]?"KEY DOCKED":"EMPTY"),M(()=>h.classList.toggle("ok",!!Be()[K])),M(()=>v.value=Be()[K]??""),j})()}),ne),x}}),null),u})()}function hn(e){let t;return je(async()=>{const n=e.frame,l=e.art,i=t.getContext("2d");if(t.width=n.w,t.height=n.h,ot(i,n.id,n.w,n.h),l){const s=await ye(l),[f,r,$,w]=n.slot;i.save(),i.beginPath(),i.rect(f,r,$,w),i.clip();const S=Math.max($/s.width,w/s.height);i.drawImage(s,f+($-s.width*S)/2,r+(w-s.height*S)/2,s.width*S,s.height*S),i.restore()}}),(()=>{var n=fn(),l=t;return typeof l=="function"?rt(l,n):t=n,n})()}function ot(e,t,n,l){e.fillStyle="#e8eaef",e.fillRect(0,0,n,l),t==="phone"?(e.fillStyle="#14161c",z(e,4,4,n-8,l-8,48),e.fill(),e.fillStyle="#000",z(e,14,70,n-28,l-140,8),e.fill(),e.fillStyle="#2a2d36",z(e,n/2-50,24,100,26,13),e.fill()):t==="browser"?(e.fillStyle="#ffffff",z(e,4,4,n-8,l-8,12),e.fill(),e.fillStyle="#eceef2",z(e,4,4,n-8,36,12),e.fill(),["#ff5d73","#ffd21e","#38d9a9"].forEach((i,s)=>{e.fillStyle=i,e.beginPath(),e.arc(24+s*22,22,6,0,Math.PI*2),e.fill()}),e.fillStyle="#f4f5f8",z(e,160,12,n-320,20,10),e.fill()):t==="tee"?(e.fillStyle="#dfe2e8",e.fillRect(0,0,n,l),e.fillStyle="#1a1c24",e.beginPath(),e.moveTo(150,90),e.lineTo(240,50),e.quadraticCurveTo(300,80,360,50),e.lineTo(450,90),e.lineTo(490,190),e.lineTo(420,220),e.lineTo(420,590),e.lineTo(180,590),e.lineTo(180,220),e.lineTo(110,190),e.closePath(),e.fill()):t==="poster"?(e.fillStyle="#c9ccd4",e.fillRect(0,0,n,l),e.fillStyle="#1a1c24",z(e,24,24,n-48,l-48,4),e.fill(),e.fillStyle="#fff",e.fillRect(40,40,n-80,l-80)):t==="card"&&(e.fillStyle="#d6d9e0",e.fillRect(0,0,n,l),e.fillStyle="#ffffff",z(e,20,20,n-40,l-40,18),e.fill(),e.strokeStyle="#c9ccd4",e.lineWidth=1,z(e,20,20,n-40,l-40,18),e.stroke())}function z(e,t,n,l,i,s){e.beginPath(),e.moveTo(t+s,n),e.arcTo(t+l,n,t+l,n+i,s),e.arcTo(t+l,n+i,t,n+i,s),e.arcTo(t,n+i,t,n,s),e.arcTo(t,n,t+l,n,s),e.closePath()}function pn(e,t,n,l,i,s){const f=t.split(" ");let r="",$=l;for(const w of f){const S=r?r+" "+w:w;e.measureText(S).width>i&&r?(e.fillText(r,n,$),r=w,$+=s):r=S}e.fillText(r,n,$)}function ye(e){return new Promise((t,n)=>{const l=new Image;l.onload=()=>t(l),l.onerror=n,l.src=e})}function ve(e,t){const n=document.createElement("a");n.href=e,n.download=t,n.click()}function gn(e){return()=>{e|=0,e=e+1831565813|0;let t=Math.imul(e^e>>>15,1|e);return t=t+Math.imul(t^t>>>7,61|t)^t,((t^t>>>14)>>>0)/4294967296}}It(["click","pointerdown","input"]);Ot(()=>P(un,{}),document.getElementById("root"));"serviceWorker"in navigator&&location.hostname!=="localhost"&&location.hostname!=="127.0.0.1"&&window.addEventListener("load",()=>{navigator.serviceWorker.register(new URL("sw.js",document.baseURI)).catch(()=>{})});

diff --git a/assets/index-Cz-BVpgl.css b/assets/index-Cz-BVpgl.css
@@ -1,0 +1,1 @@
+:root{--bg: #eceef2;--panel: #ffffff;--panel2: #f4f5f8;--line: #d5d8de;--ink: #1a1c24;--dim: #6e727c;--gold: #a87f18;--violet: #7c4dff}*{margin:0;padding:0;box-sizing:border-box}body{background:linear-gradient(165deg,#f2f3f7,#dfe2e9);color:var(--ink);font:14px/1.5 Helvetica Neue,Arial,sans-serif;-webkit-font-smoothing:antialiased;min-height:100vh}.shell{min-height:100dvh;display:flex;flex-direction:column}.top{display:flex;align-items:center;gap:1.6rem;padding:.9rem 1.4rem;border-bottom:1px solid var(--line);background:#f7f8fbcc;-webkit-backdrop-filter:blur(10px);backdrop-filter:blur(10px);position:sticky;top:0;z-index:5;flex-wrap:wrap}.brand b{font-size:1.5rem;letter-spacing:.04em;font-weight:800}.brand .inf{color:var(--gold)}.brand i{display:block;font-size:.62rem;letter-spacing:.3em;text-transform:uppercase;color:var(--dim);font-style:normal}.screens{display:flex;gap:.4rem}.screens button{background:none;border:1px solid var(--line);color:var(--dim);padding:.45rem .95rem;border-radius:8px;letter-spacing:.14em;font-size:.72rem;cursor:pointer}.screens button.on{color:#fff;background:var(--ink);border-color:var(--ink);font-weight:700}.tag{margin-left:auto;font-size:.64rem;letter-spacing:.14em;color:var(--dim);text-transform:uppercase}.deck{flex:1;padding:1.2rem 1.4rem}.widget{background:var(--panel);border:1px solid var(--line);border-radius:16px;padding:1rem 1.2rem;box-shadow:0 10px 30px #00000010}.whead{display:flex;align-items:baseline;gap:.8rem;margin-bottom:.9rem;flex-wrap:wrap}.whead h2{font-size:.8rem;letter-spacing:.26em;color:var(--gold);font-weight:800}.wsub{font-size:.68rem;color:var(--dim);letter-spacing:.08em}.wactions{margin-left:auto;display:flex;gap:.4rem;flex-wrap:wrap;align-items:center}.wactions button,.loadbtn{background:none;border:1px solid var(--line);color:var(--ink);border-radius:7px;padding:.32rem .7rem;font-size:.66rem;letter-spacing:.1em;text-transform:uppercase;cursor:pointer}.wactions button:hover,.loadbtn:hover{border-color:var(--ink)}.wactions .gold{background:var(--gold);border-color:var(--gold);color:#fff;font-weight:700}.selbox{border:1px solid var(--line);border-radius:7px;padding:.3rem .5rem;font-size:.68rem;background:#fff;color:var(--ink)}.canvaswrap{display:flex;gap:1rem;align-items:flex-start}.artboard{position:relative;background:#fff;border:1px solid var(--line);box-shadow:0 14px 40px #00000018;overflow:hidden;flex:none}.cel{position:absolute;cursor:grab;-webkit-user-select:none;user-select:none;display:flex;align-items:flex-start}.cel:active{cursor:grabbing}.cel.selected{outline:2px solid var(--violet);outline-offset:1px}.cel span{display:block;width:100%;word-break:break-word}.grip{position:absolute;right:-7px;bottom:-7px;width:14px;height:14px;background:var(--violet);border-radius:50%;cursor:nwse-resize;border:2px solid #fff}.inspector{width:230px;flex:none;background:var(--panel2);border:1px solid var(--line);border-radius:12px;padding:.8rem;position:sticky;top:80px}.inspector h3{font-size:.6rem;letter-spacing:.22em;color:var(--dim);margin:.8rem 0 .4rem}.inspector h3:first-child{margin-top:0}.layerrow{display:block;width:100%;text-align:left;background:#fff;border:1px solid var(--line);border-radius:7px;padding:.35rem .6rem;font-size:.68rem;margin-bottom:.3rem;cursor:pointer;color:var(--ink)}.layerrow.on{border-color:var(--violet);color:var(--violet)}.txtin{width:100%;border:1px solid var(--line);border-radius:7px;padding:.45rem .6rem;font-size:.78rem;margin-bottom:.4rem;background:#fff;color:var(--ink)}.txtin.big{font-size:1.1rem;font-weight:800}.mini{display:flex;flex-direction:column;font-size:.58rem;letter-spacing:.12em;color:var(--dim);gap:.2rem;margin-bottom:.4rem}.chips{display:flex;gap:.35rem;align-items:center;margin:.4rem 0;flex-wrap:wrap}.chip{width:26px;height:26px;border-radius:7px;border:1px solid #00000022;cursor:pointer}.rowbtns{display:flex;gap:.35rem;flex-wrap:wrap;margin-top:.4rem}.rowbtns button{background:#fff;border:1px solid var(--line);border-radius:7px;padding:.35rem .6rem;font-size:.62rem;cursor:pointer;color:var(--ink)}.rowbtns .danger{color:#d33;border-color:#d3333366}.rowbtns .gold{background:var(--gold);border-color:var(--gold);color:#fff;font-weight:700}.mockrow{display:flex;gap:1.2rem;align-items:flex-start}.framelist{display:flex;flex-direction:column;gap:.4rem;width:140px;flex:none}.framelist button{background:#fff;border:1px solid var(--line);border-radius:8px;padding:.55rem;font-size:.66rem;letter-spacing:.12em;cursor:pointer;color:var(--ink)}.framelist button.on{border-color:var(--gold);color:var(--gold);font-weight:800}.mockstage{flex:1;display:grid;place-items:center;background:var(--panel2);border:1px solid var(--line);border-radius:12px;padding:1.4rem}.mockcv{max-width:100%;height:auto;box-shadow:0 18px 50px #0002;border-radius:8px}.brandgrid{display:grid;grid-template-columns:1fr 1.4fr;gap:1.2rem}.brandcard{background:var(--panel2);border:1px solid var(--line);border-radius:12px;padding:1rem}.brandcard h3{font-size:.6rem;letter-spacing:.22em;color:var(--dim);margin:.9rem 0 .45rem}.brandcard h3:first-child{margin-top:0}.logoslot{min-height:170px;border:2px dashed var(--line);border-radius:12px;display:grid;place-items:center;background:#fff}.logoslot img{max-width:80%;max-height:150px}.logoslot span{color:var(--dim);font-size:.7rem;max-width:200px;text-align:center}.palette{display:flex;gap:.6rem;flex-wrap:wrap}.swatch{display:flex;flex-direction:column;gap:.3rem;align-items:center}.swatch input{width:64px;height:64px;border:none;border-radius:12px;cursor:pointer;background:none}.swatch b{font-size:.58rem;font-family:Menlo,monospace;color:var(--dim)}.fontpairs{display:grid;grid-template-columns:1fr 1fr;gap:.5rem}.fontpairs button{background:#fff;border:1px solid var(--line);border-radius:10px;padding:.7rem;text-align:left;cursor:pointer;color:var(--ink)}.fontpairs button.on{border-color:var(--gold)}.fontpairs b{display:block}.fontpairs span{color:var(--dim)}.screenrow{display:flex;gap:1.2rem;align-items:stretch;min-height:560px}.blockbar{width:190px;flex:none}.blockbar h3{font-size:.6rem;letter-spacing:.22em;color:var(--dim);margin:.8rem 0 .4rem}.blockbar h3:first-child{margin-top:0}.blockbar>button{display:block;width:100%;text-align:left;background:#fff;border:1px solid var(--line);border-radius:7px;padding:.4rem .6rem;font-size:.64rem;margin-bottom:.3rem;cursor:pointer;color:var(--ink)}.blockbar>button:hover{border-color:var(--gold)}.stackrow{display:flex;align-items:center;gap:.3rem;background:var(--panel2);border:1px solid var(--line);border-radius:7px;padding:.3rem .5rem;margin-bottom:.3rem}.stackrow span{flex:1;font-size:.62rem;letter-spacing:.1em}.stackrow button{background:none;border:none;cursor:pointer;color:var(--dim);font-size:.7rem}.pagepreview{flex:1;border:1px solid var(--line);border-radius:12px;background:#fff}.enginerow{display:grid;grid-template-columns:1.2fr 1fr;gap:1.2rem}.gencard{background:var(--panel2);border:1px solid var(--line);border-radius:12px;padding:1rem}.gencard h3{font-size:.62rem;letter-spacing:.2em;color:var(--dim);margin-bottom:.6rem}.gencv{width:100%;max-width:440px;height:auto;border-radius:12px;border:1px solid var(--line);display:block;margin-bottom:.6rem;background:#fff}.enginedock{display:flex;align-items:center;gap:.6rem;margin-bottom:.55rem}.enginedock b{width:150px;font-size:.64rem;letter-spacing:.06em}.enginedock .txtin{flex:1;margin:0}.enginedock i{font-size:.55rem;font-style:normal;letter-spacing:.14em;color:var(--dim);width:74px;text-align:right}.enginedock i.ok{color:#1d9d6d;font-weight:800}.legend{font-size:.66rem;color:var(--dim);margin-top:.6rem;letter-spacing:.04em}.foot{padding:.7rem 1.4rem;border-top:1px solid var(--line);color:#9599a3;font-size:.62rem;letter-spacing:.18em;text-transform:uppercase}@media (max-width: 980px){.brandgrid,.enginerow{grid-template-columns:1fr}.canvaswrap{flex-wrap:wrap}.inspector{width:100%;position:static}}

diff --git a/404.html b/404.html
@@ -3,19 +3,19 @@
 <head>
   <meta charset="UTF-8" />
   <meta name="viewport" content="width=device-width, initial-scale=1.0" />
-  <title>CRE∞ · by Machavelli</title>
+  <title>iBrand · by Machavelli</title>
   <meta name="description" content="The AI creative suite — canvas, mockups, brand kits, UI screens, generative engines. Create with AI or build completely originally." />
-  <meta property="og:title" content="CRE∞ · by Machavelli" />
+  <meta property="og:title" content="iBrand · by Machavelli" />
   <meta property="og:description" content="The AI creative suite — create with AI or build completely originally." />
   <meta property="og:type" content="website" />
-  <meta property="og:url" content="https://jackpolo69.github.io/cre8/" />
-  <meta property="og:image" content="https://jackpolo69.github.io/cre8/og.png" />
+  <meta property="og:url" content="https://jackpolo69.github.io/ibrand/" />
+  <meta property="og:image" content="https://jackpolo69.github.io/ibrand/og.png" />
   <meta name="twitter:card" content="summary_large_image" />
   <link rel="manifest" href="manifest.webmanifest" />
   <link rel="apple-touch-icon" href="icon-192.png" />
   <meta name="theme-color" content="#eceef2" />
-  <script type="module" crossorigin src="/cre8/assets/index-DKhGrTjr.js"></script>
-  <link rel="stylesheet" crossorigin href="/cre8/assets/index-DY3Ickjs.css">
+  <script type="module" crossorigin src="/assets/index-DB0gKzt2.js"></script>
+  <link rel="stylesheet" crossorigin href="/assets/index-Cz-BVpgl.css">
 </head>
 <body>
   <div id="root"></div>

diff --git a/index.html b/index.html
@@ -3,19 +3,19 @@
 <head>
   <meta charset="UTF-8" />
   <meta name="viewport" content="width=device-width, initial-scale=1.0" />
-  <title>CRE∞ · by Machavelli</title>
+  <title>iBrand · by Machavelli</title>
   <meta name="description" content="The AI creative suite — canvas, mockups, brand kits, UI screens, generative engines. Create with AI or build completely originally." />
-  <meta property="og:title" content="CRE∞ · by Machavelli" />
+  <meta property="og:title" content="iBrand · by Machavelli" />
   <meta property="og:description" content="The AI creative suite — create with AI or build completely originally." />
   <meta property="og:type" content="website" />
-  <meta property="og:url" content="https://jackpolo69.github.io/cre8/" />
-  <meta property="og:image" content="https://jackpolo69.github.io/cre8/og.png" />
+  <meta property="og:url" content="https://jackpolo69.github.io/ibrand/" />
+  <meta property="og:image" content="https://jackpolo69.github.io/ibrand/og.png" />
   <meta name="twitter:card" content="summary_large_image" />
   <link rel="manifest" href="manifest.webmanifest" />
   <link rel="apple-touch-icon" href="icon-192.png" />
   <meta name="theme-color" content="#eceef2" />
-  <script type="module" crossorigin src="/cre8/assets/index-DKhGrTjr.js"></script>
-  <link rel="stylesheet" crossorigin href="/cre8/assets/index-DY3Ickjs.css">
+  <script type="module" crossorigin src="/assets/index-DB0gKzt2.js"></script>
+  <link rel="stylesheet" crossorigin href="/assets/index-Cz-BVpgl.css">
 </head>
 <body>
   <div id="root"></div>

diff --git a/sw.js b/sw.js
@@ -1,7 +1,7 @@
 /* GENIUS ∞ service worker — offline always, fresh on first reload.
    Navigations are network-first (so updates land immediately when online,
    cache serves when offline); hashed assets are cache-first (immutable). */
-const CACHE = 'cre8-v1'
+const CACHE = 'ibrand-v1'
 self.addEventListener('install', (e) => {
   e.waitUntil(caches.open(CACHE).then((c) => c.addAll(['./', './index.html', './manual.html'])).then(() => self.skipWaiting()))
 })
